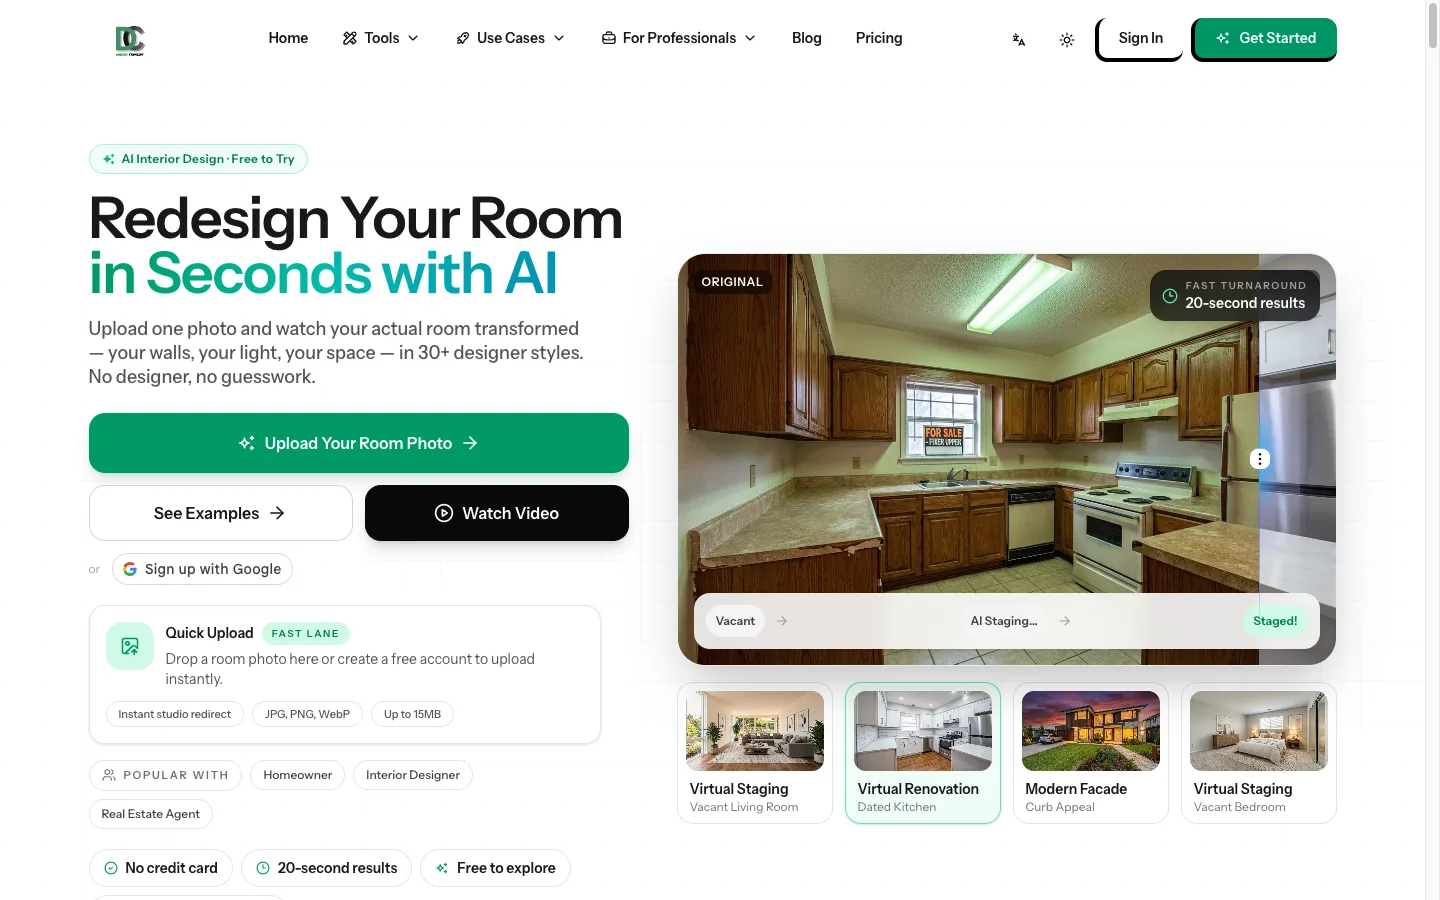
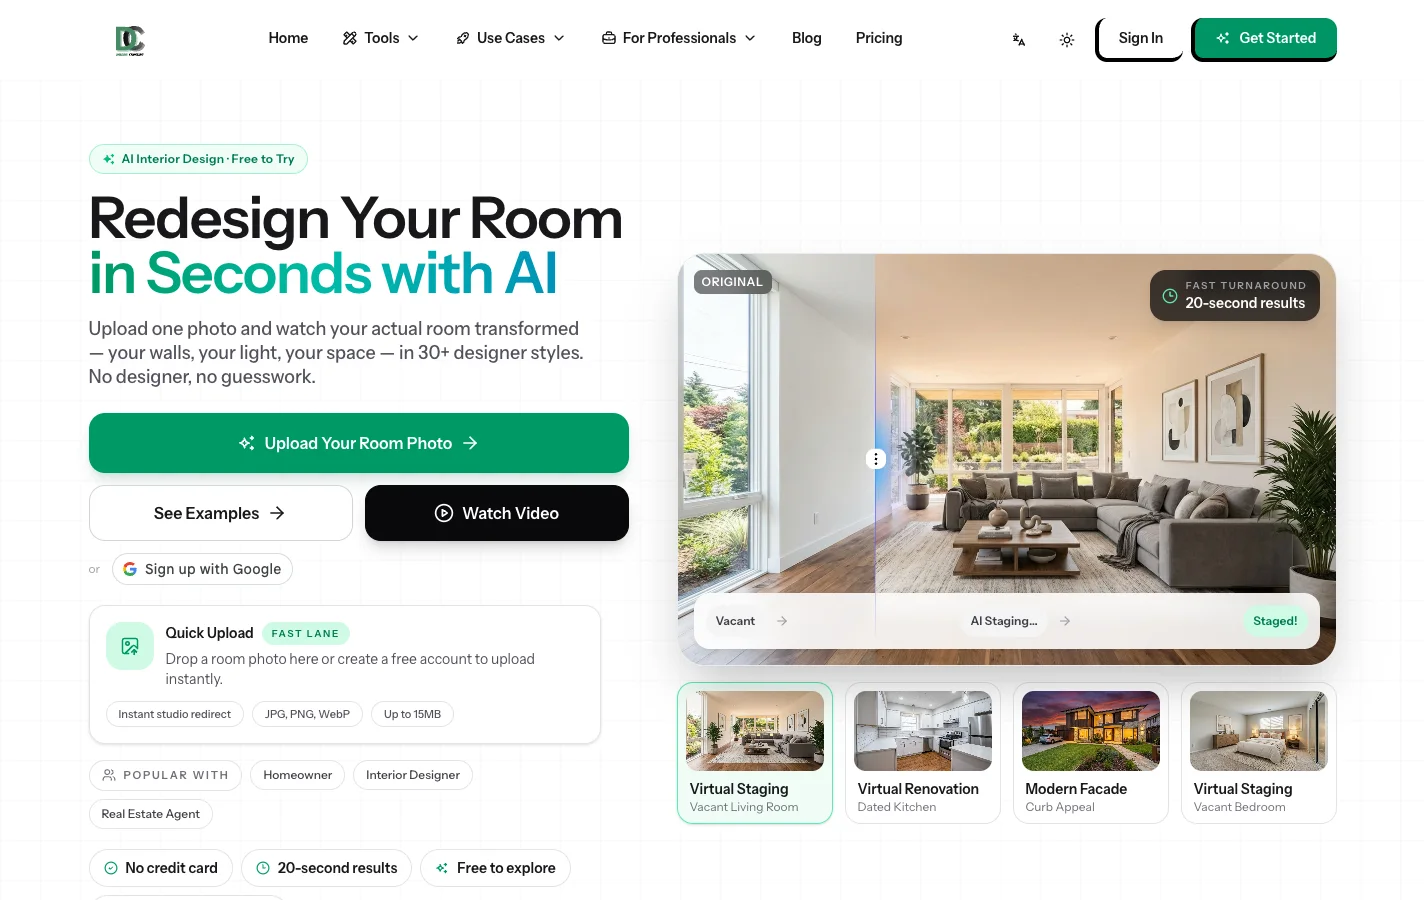
feat: switch project screenshots between light and dark with the site theme

diff --git a/assets/constants/index.js b/assets/constants/index.js
@@ -132,6 +132,7 @@ export const projects = [
         stack: ["Filament 4 & 5", "Livewire", "TypeScript", "Pest"],
         cover: "builder",
         image: "/images/my_projects/filamentcraft/cover.webp",
+        imageDark: "/images/my_projects/filamentcraft/cover-dark.webp",
         screenshot: true,
         url: "/projects/filamentcraft",
         demo: "https://filamentcraft.dev?ref=portfolio",
@@ -153,6 +154,7 @@ export const projects = [
         stack: ["Laravel", "React", "Inertia", "Gemini"],
         cover: "phone",
         image: "/images/my_projects/wiserpocket/cover.webp",
+        imageDark: "/images/my_projects/wiserpocket/cover-dark.webp",
         screenshot: true,
         url: "/projects/wiserpocket",
         demo: "https://wiserpocket.com",
@@ -247,6 +249,7 @@ export const projects = [
         stack: ["Laravel", "Inertia", "Gemini", "PWA"],
         cover: "gallery",
         image: "/images/my_projects/decorcopilot/cover.webp",
+        imageDark: "/images/my_projects/decorcopilot/cover-dark.webp",
         screenshot: true,
         url: "/projects/decorcopilot",
         demo: "https://decorcopilot.com",

diff --git a/components/Project/Cover.vue b/components/Project/Cover.vue
@@ -25,8 +25,17 @@ const content = computed(() => (hasSidebar.value ? { x: 92, w: 288 } : { x: 20, 
           :src="project.image"
           :alt="`Screenshot of ${project.name}: ${project.tagline}`"
           class="min-h-0 w-full flex-1 object-cover object-left-top"
+          :class="project.imageDark && 'dark:hidden'"
           sizes="xs:100vw md:50vw xl:800px"
           :loading="eager ? 'eager' : 'lazy'"
+        />
+        <NuxtImg
+          v-if="project.imageDark"
+          :src="project.imageDark"
+          :alt="`Screenshot of ${project.name}: ${project.tagline}`"
+          class="hidden min-h-0 w-full flex-1 object-cover object-left-top dark:block"
+          sizes="xs:100vw md:50vw xl:800px"
+          loading="lazy"
         />
       </div>
     </template>
